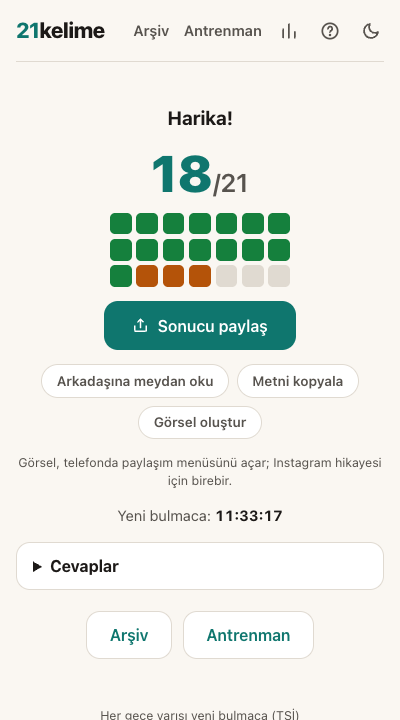
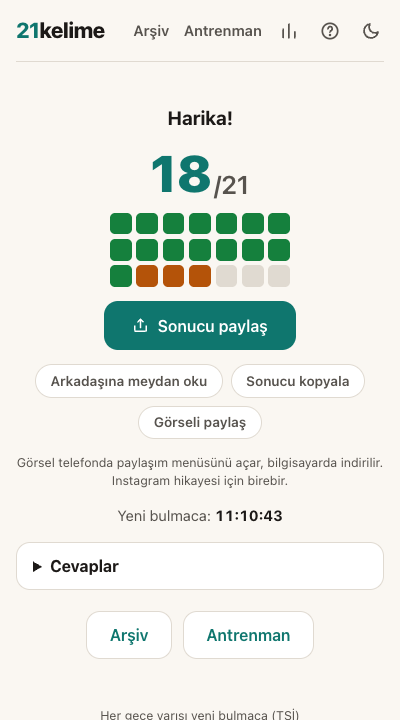
Share polish: aligned length column in text and image, breathing room around title and URL, optical score alignment, clearer button labels

diff --git a/src/lib/game/resultImage.ts b/src/lib/game/resultImage.ts
@@ -80,7 +80,7 @@ export async function renderResultImage(opts: ImageOptions): Promise<Blob> {
 		: `#${opts.day} · ${opts.dateLabel}`;
 	ctx.fillText(dayLine, W / 2, 250);
 
-	// Score
+	// Score: denominator baseline sits a touch lower for optical bottom alignment.
 	const score = scoreOf(opts.results);
 	ctx.font = font(230);
 	const scoreW = ctx.measureText(String(score)).width;
@@ -93,24 +93,35 @@ export async function renderResultImage(opts: ImageOptions): Promise<Blob> {
 	ctx.fillText(String(score), sx, 530);
 	ctx.font = font(110);
 	ctx.fillStyle = colors.soft;
-	ctx.fillText('/21', sx + scoreW + 10, 530);
+	ctx.fillText('/21', sx + scoreW + 10, 540);
 	ctx.textAlign = 'center';
 
-	// Grid rows grouped by word length
+	// Grid: rows grouped by word length, drawn as one left-aligned block
+	// (leading digit column) and centered as a whole, mirroring the share text.
 	const cell = 62;
 	const gap = 14;
 	const rowGap = 20;
-	let y = 630;
-	let i = 0;
-	ctx.textAlign = 'left';
-	while (i < opts.results.length) {
+	const digitColW = 46;
+	const rows: { len: number; outcomes: string[] }[] = [];
+	for (let i = 0; i < opts.results.length;) {
 		const len = ROUND_PLAN[i];
-		let count = 0;
-		while (i + count < opts.results.length && ROUND_PLAN[i + count] === len) count++;
-		const rowW = count * cell + (count - 1) * gap + 60;
-		let x = W / 2 - rowW / 2;
-		for (let k = 0; k < count; k++) {
-			const outcome = opts.results[i + k].outcome;
+		const outcomes: string[] = [];
+		while (i < opts.results.length && ROUND_PLAN[i] === len) {
+			outcomes.push(opts.results[i].outcome);
+			i++;
+		}
+		rows.push({ len, outcomes });
+	}
+	const maxCells = Math.max(...rows.map((r) => r.outcomes.length));
+	const blockX = W / 2 - (digitColW + maxCells * cell + (maxCells - 1) * gap) / 2;
+	let y = 630;
+	ctx.textAlign = 'left';
+	for (const row of rows) {
+		ctx.fillStyle = colors.soft;
+		ctx.font = font(40, 700);
+		ctx.fillText(String(row.len), blockX, y + cell / 2 + 14);
+		let x = blockX + digitColW;
+		for (const outcome of row.outcomes) {
 			ctx.fillStyle =
 				outcome === 'solved'
 					? colors.solved
@@ -122,11 +133,7 @@ export async function renderResultImage(opts: ImageOptions): Promise<Blob> {
 			ctx.fill();
 			x += cell + gap;
 		}
-		ctx.fillStyle = colors.soft;
-		ctx.font = font(40, 700);
-		ctx.fillText(String(len), x + 8, y + cell / 2 + 14);
 		y += cell + rowGap;
-		i += count;
 	}
 
 	// Streak badge

diff --git a/src/lib/game/share.test.ts b/src/lib/game/share.test.ts
@@ -11,18 +11,20 @@ function results(outcomes: string): RoundResult[] {
 }
 
 describe('shareText', () => {
-	it('groups rows by word length with a length label', () => {
+	it('groups rows by word length with an aligned leading label and breathing room', () => {
 		const text = shareText(5, results('gggggggyyyyyyybbbbbbb'));
 		const lines = text.split('\n');
 		expect(lines[0]).toBe('21kelime #5 14/21');
-		expect(lines[1]).toBe('🟩🟩🟩 4');
-		expect(lines[2]).toBe('🟩🟩🟩🟩 5');
-		expect(lines[3]).toBe('🟨🟨🟨🟨 6');
-		expect(lines[4]).toBe('🟨🟨🟨⬛ 7');
-		expect(lines[5]).toBe('⬛⬛⬛ 8');
-		expect(lines[6]).toBe('⬛⬛⬛ 9');
-		expect(lines[7]).toBe('https://21kelime.com');
-		expect(lines).toHaveLength(8);
+		expect(lines[1]).toBe('');
+		expect(lines[2]).toBe('4 🟩🟩🟩');
+		expect(lines[3]).toBe('5 🟩🟩🟩🟩');
+		expect(lines[4]).toBe('6 🟨🟨🟨🟨');
+		expect(lines[5]).toBe('7 🟨🟨🟨⬛');
+		expect(lines[6]).toBe('8 ⬛⬛⬛');
+		expect(lines[7]).toBe('9 ⬛⬛⬛');
+		expect(lines[8]).toBe('');
+		expect(lines[9]).toBe('https://21kelime.com');
+		expect(lines).toHaveLength(10);
 	});
 
 	it('marks relax mode and includes streaks of 2 or more', () => {

diff --git a/src/lib/game/share.ts b/src/lib/game/share.ts
@@ -1,12 +1,16 @@
 /**
  * Spoiler-free share text. Rows follow the game's length ramp (4 to 9
- * letter words), so the format reads as 21kelime, not as a Wordle clone:
+ * letter words), so the format reads as 21kelime, not as a Wordle clone.
+ * The leading word-length digit gives every row a common left edge:
  *
  *   21kelime #12 16/21
- *   🟩🟩🟩 4
- *   🟩🟨🟩🟩 5
+ *
+ *   4 🟩🟩🟩
+ *   5 🟩🟨🟩🟩
  *   ...
+ *   9 ⬛⬛⬛
  *   Seri: 5 gün 🔥
+ *
  *   https://21kelime.com
  */
 import { ROUND_PLAN } from './generate.ts';
@@ -39,13 +43,13 @@ export function shareText(day: number, results: RoundResult[], opts: ShareOption
 			cells += EMOJI[results[j].outcome];
 			j++;
 		}
-		rows.push(len ? `${cells} ${len}` : cells);
+		rows.push(len ? `${len} ${cells}` : cells);
 		i = j;
 	}
 	const mode = opts.relax ? ' 🌙' : '';
-	const lines = [`21kelime #${day} ${score}/${results.length}${mode}`, ...rows];
+	const lines = [`21kelime #${day} ${score}/${results.length}${mode}`, '', ...rows];
 	if ((opts.streak ?? 0) >= 2) lines.push(`Seri: ${opts.streak} gün 🔥`);
-	lines.push('https://21kelime.com');
+	lines.push('', 'https://21kelime.com');
 	return lines.join('\n');
 }
 

diff --git a/src/lib/components/ResultScreen.svelte b/src/lib/components/ResultScreen.svelte
@@ -138,14 +138,15 @@
 				</button>
 			{/if}
 			<button class="social-btn" onclick={doCopy}>
-				{shareState === 'copied' ? 'Kopyalandı' : 'Metni kopyala'}
+				{shareState === 'copied' ? 'Kopyalandı' : 'Sonucu kopyala'}
 			</button>
 			<button class="social-btn" onclick={doImageShare}>
-				{shareState === 'image-downloaded' ? 'Görsel indirildi' : 'Görsel oluştur'}
+				{shareState === 'image-downloaded' ? 'Görsel indirildi' : 'Görseli paylaş'}
 			</button>
 		</div>
 		<p class="share-hint">
-			Görsel, telefonda paylaşım menüsünü açar; Instagram hikayesi için birebir.
+			Görsel telefonda paylaşım menüsünü açar, bilgisayarda indirilir. Instagram hikayesi için
+			birebir.
 		</p>
 	{/if}
 
@@ -218,6 +219,10 @@
 		font-size: 3.2rem;
 		font-weight: 800;
 		line-height: 1;
+		display: flex;
+		align-items: flex-end;
+		justify-content: center;
+		gap: 0.1rem;
 	}
 
 	.score strong {
@@ -226,6 +231,7 @@
 
 	.score span {
 		font-size: 1.6rem;
+		line-height: 1.05;
 		color: var(--ink-soft);
 		font-weight: 600;
 	}